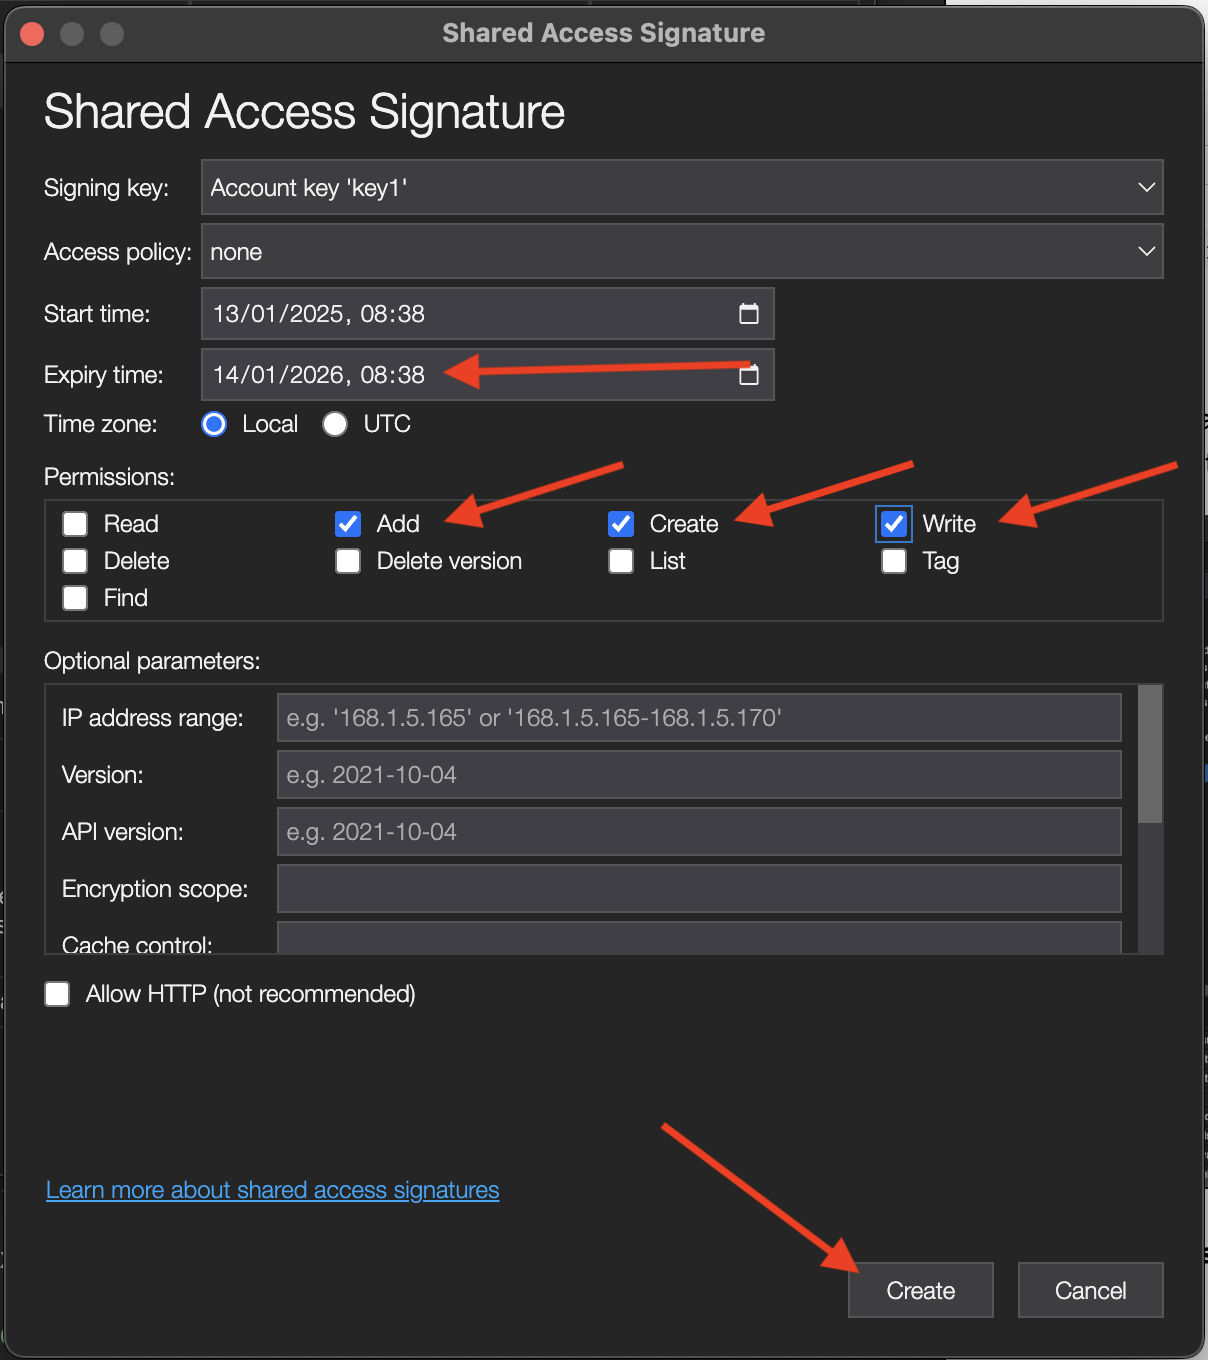
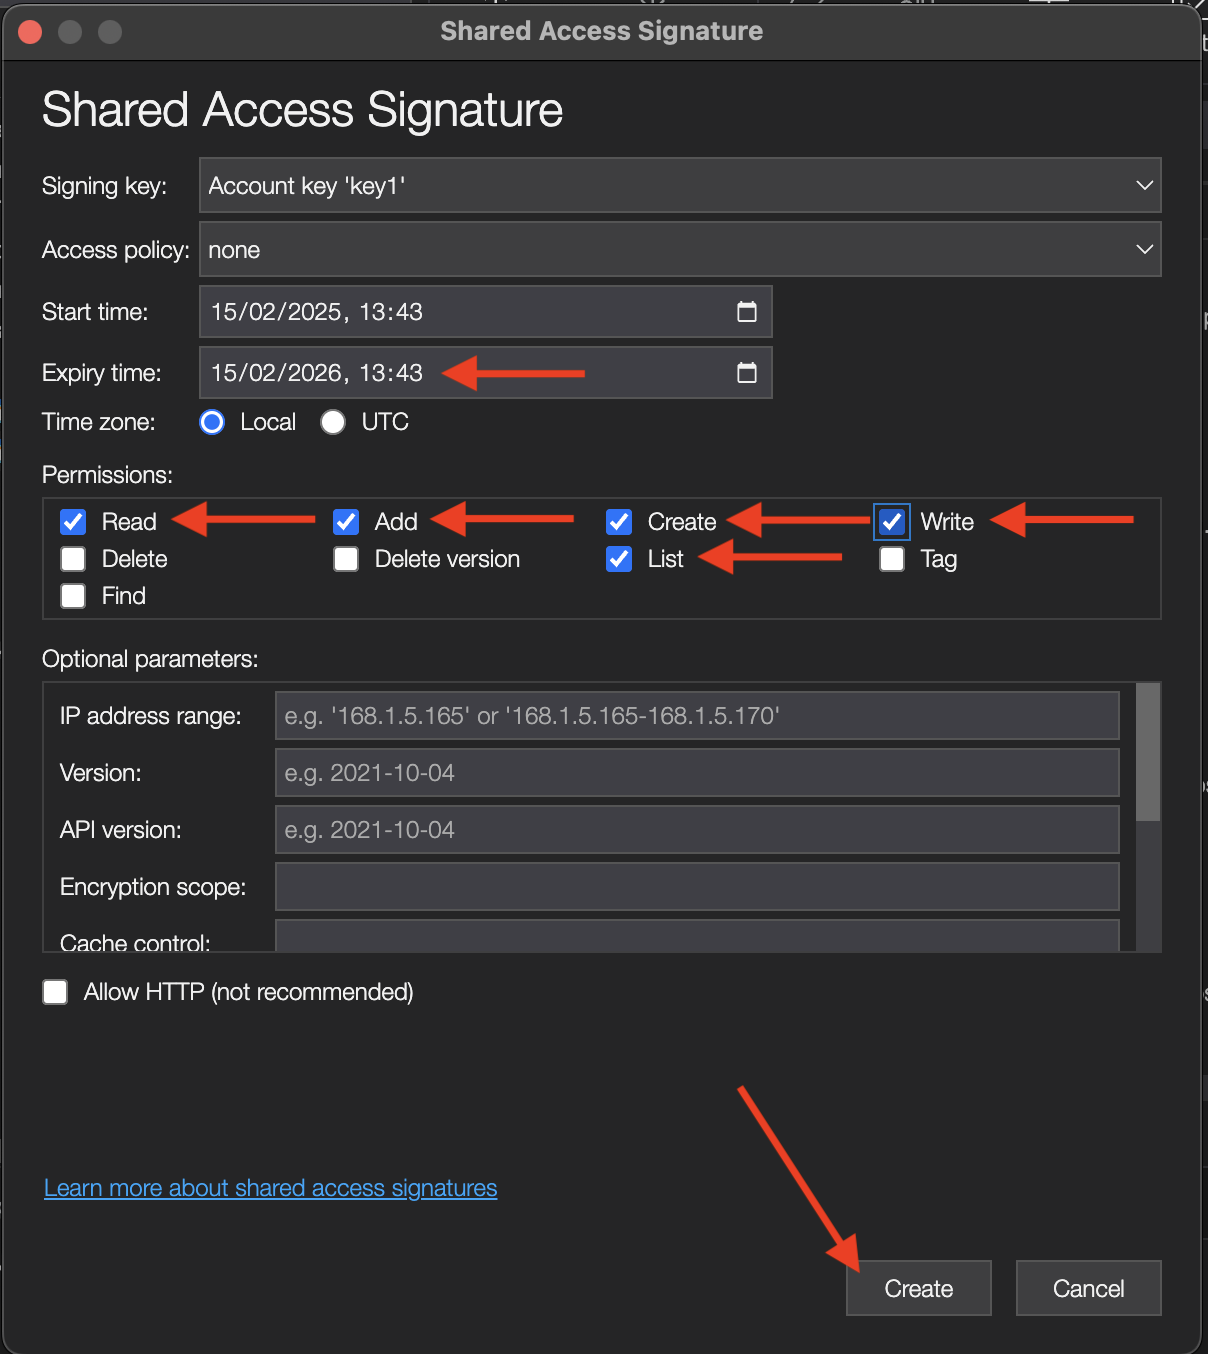
api collection updates

diff --git a/help/tutorial-one-adobe/modules/creative-cloud/module1.1/ex1.md b/help/tutorial-one-adobe/modules/creative-cloud/module1.1/ex1.md
@@ -11,162 +11,31 @@ exl-id: 52385c33-f316-4fd9-905f-72d2d346f8f5
 
 Learn how to use Postman and Adobe I/O to query Adobe Firefly Services APIs.
 
-## 1.1.1.1 Configure your Adobe I/O Project
+## 1.1.1.1 Prerequisites
 
-In this exercise, Adobe I/O is used to query against Firefly Services APIs. Follow these steps to setup Adobe I/O.
+Before continuing with this exercise, you need to have completed the setup of [your Adobe I/O project](./../../../modules/getting-started/gettingstarted/ex6.md), and you also need to have configured an application to interact with APIs, such as [Postman](./../../../modules/getting-started/gettingstarted/ex7.md) or [PostBuster](./../../../modules/getting-started/gettingstarted/ex8.md).
 
-1. Go to [https://developer.adobe.com/console/home](https://developer.adobe.com/console/home){target="_blank"}.
+## 1.1.1.2 Adobe I/O - access_token
 
-  ![Adobe I/O New Integration](./images/iohome.png){zoomable="yes"}
+In the **Adobe IO - OAuth** collection, select the request named **POST - Get Access Token** and select **Send**. The response should contain a new **accestoken**.
 
-1. Make sure to select the correct instance in the top right corner of your screen. Your instance is `--aepImsOrgName--`. Next, select **Create new project**.
+![Postman](./images/ioauthresp.png){zoomable="yes"}
 
-  ![Adobe I/O New Integration](./images/iocomp.png){zoomable="yes"}
+## 1.1.1.3 Firefly Services API, Text 2 Image
 
-1. Select **+ Add to Project** and choose **API**.
+Now that you have a valid and fresh access_token, you are ready to send your first request to Firefly Services APIs.
 
-  ![Adobe I/O New Integration](./images/adobe_io_access_api.png){zoomable="yes"}
+Select the request named **POST - Firefly - T2I V3** from the **FF - Firefly Services Tech Insiders** collection.
 
- Your screen should look like this.
+![Firefly](./images/ff1.png){zoomable="yes"}
 
-  ![Adobe I/O New Integration](./images/api1.png){zoomable="yes"}
+Copy the image URL from the response and open it in your web browser to view the image. 
 
-1. Select **Creative Cloud** and choose **Firefly - Firefly Services**, then select **Next**.
+![Firefly](./images/ff2.png){zoomable="yes"}
 
-  ![Adobe I/O New Integration](./images/api3.png){zoomable="yes"}
+You should see a beautiful image portraying `horses in a field`.
 
-1. Provide a name for your credential: `--aepUserLdap-- - Firefly Services OAuth credential`and select **Next**.
-
-  ![Adobe I/O New Integration](./images/api4.png){zoomable="yes"}
-
-1. Select the default profile **Default Firefly Services Configuration** and select **Save Configured API**.
-
-  ![Adobe I/O New Integration](./images/api9.png){zoomable="yes"}
-
-  Your Adobe I/O integration is now ready.
-
-  ![Adobe I/O New Integration](./images/api11.png){zoomable="yes"}
-
-## 1.1.1.2 Download the Postman environment
-
-1. Select **Download for Postman**, then choose **OAuth Server-to-Server** to download a Postman environment.
-
-  ![Adobe I/O New Integration](./images/iopm.png){zoomable="yes"}
-
-1. Select your project name.
-
-  ![Adobe I/O New Integration](./images/api13.png){zoomable="yes"}
-
-1. Select **Edit Project**.
-
-  ![Adobe I/O New Integration](./images/api14.png){zoomable="yes"}
-
-1. Enter a friendly name for your integration: `--aepUserLdap-- Firefly`and select **Save**.
-
-  ![Adobe I/O New Integration](./images/api15.png){zoomable="yes"}
-
-  The setup of your Adobe I/O integration is now finished.
-
-  ![Adobe I/O New Integration](./images/api16.png){zoomable="yes"}
-
-## 1.1.1.3 Postman authentication to Adobe I/O
-
-1. Download and install the relevant version of Postman for your OS at [Postman Downloads](https://www.postman.com/downloads/){target="_blank"}.
-
-  ![Adobe I/O New Integration](./images/getstarted.png){zoomable="yes"}
-
-1. Start the application.
-
-  In Postman, there are 2 concepts: Environments and Collections.
-
-  - The environment file contains all of your environmental variables which are more or less consistent. In the environment, you'll find things like the IMSOrg of your Adobe environment, alongside security credentials like your Client ID and others. You downloaded the environment file during the Adobe I/O setup previously and it's named  **`oauth_server_to_server.postman_environment.json`**.
-    
-  - The Collection contains a number of API requests that you can use. We will use 2 collections
-    - 1 Collection for Authentication to Adobe I/O
-    - 1 Collection for the exercises in this module
-
-1. Download [postman-ff.zip](./../../../assets/postman/postman-ff.zip) to your local desktop. 
-
-  ![Adobe I/O New Integration](./images/pmfolder.png){zoomable="yes"}
-
-  In **postman.zip** file are the following files:
-
-    - `Adobe IO - OAuth.postman_collection.json`
-    - `FF - Firefly Services Tech Insiders.postman_collection.json`
-  
-1. Unzip **postman-ff.zip** and store the following 2 files in a folder on your desktop:
-  - Adobe IO - OAuth.postman_collection.json 
-  - FF - Firefly Services Tech Insiders.postman_collection.json 
-  - oauth_server_to_server.postman_environment.json
-
-  ![Adobe I/O New Integration](./images/pmfolder1.png){zoomable="yes"}
-
-1. In Postman, select **Import**.
-
-  ![Adobe I/O New Integration](./images/postmanui.png){zoomable="yes"}
-
-1. Select **Files**.
-
-  ![Adobe I/O New Integration](./images/choosefiles.png){zoomable="yes"}
-
-1. Choose the three files from the folder, then select **Open** and **Import**. 
-
-  ![Adobe I/O New Integration](./images/selectfiles.png){zoomable="yes"}
-
-  ![Adobe I/O New Integration](./images/impconfirm.png){zoomable="yes"}
-
-  No you have everything you need in Postman to start interacting with Firefly Services through the APIs.
-
-## 1.1.1.4 Request an access token
-
-Next, to make sure you're properly authenticated, you need to request an access token.
-
-1. Make sure that you've got the right environment selected before executing any request by verifying the Environment-dropdown list in the top right corner. The selected Environment should have a name similar to this one, `--aepUserLdap-- Firefly Services OAuth Credential`.
-
-  ![Postman](./images/envselemea1.png){zoomable="yes"}
-
-  The selected Environment should have a name similar to this one, `--aepUserLdap-- Firefly Services OAuth Credential`.
-
-  ![Postman](./images/envselemea.png){zoomable="yes"}
-
-  Now that your Postman environment and collections are configured and working, you can authenticate from Postman to Adobe I/O.
-
-1. In the **Adobe IO - OAuth** collection, select the request named **POST - Get Access Token** and select **Send**. 
-
-  Notice under **Query Params**, two variables are referenced, `API_KEY` and `CLIENT_SECRET`. These variables are taken from the selected environment, `--aepUserLdap-- Firefly Services OAuth Credential`. 
-
-  ![Postman](./images/ioauth.png){zoomable="yes"}
-
-  If successful, a response containing a bearer token, an access token, and an expiration window appears in the **Body** section of Postman.
-
-  ![Postman](./images/ioauthresp.png){zoomable="yes"}
-
-
-  You should see a similar response containing the following information:
-
-  | Key     | Value     | 
-  |:-------------:| :---------------:| 
-  | token_type          | **bearer** |
-  | access_token    | **eyJhbGciOiJSU...** | 
-  | expires_in          | **86399** |
-
-  The Adobe I/O **bearer-token** has a specific value (the very long access_token) and an expiration window and is now valid for 24 hours. This means that after 24 hours, if you want to use Postman to authenticate to Adobe I/O, you will have to generate a new token by running this request again.
-
-## 1.1.1.5 Firefly Services API, Text 2 Image
-
-Now you are ready to send your first request to Firefly Services APIs.
-
-1. Select the request named **POST - Firefly - T2I V3** from the **FF - Firefly Services Tech Insiders** collection.
-
-  ![Firefly](./images/ff1.png){zoomable="yes"}
-
-1. Copy the image URL from the response and open it in your web browser to view the image. 
-
-  ![Firefly](./images/ff2.png){zoomable="yes"}
-
-  You should see a beautiful image portraying `horses in a field`.
-
-  ![Firefly](./images/ff3.png){zoomable="yes"}
+![Firefly](./images/ff3.png){zoomable="yes"}
 
 Feel free to play around with the API request before continuing to the next exercise.
 

diff --git a/help/tutorial-one-adobe/modules/creative-cloud/module1.1/ex3.md b/help/tutorial-one-adobe/modules/creative-cloud/module1.1/ex3.md
@@ -11,65 +11,27 @@ exl-id: 60eecc24-1713-4fec-9ffa-a3186db1a8ca
 
 Learn how to work with the Photoshop APIs and Firefly Services.
 
-## 1.1.3.1 Update your Adobe I/O integration
+## 1.1.3.1 Prerequisites
 
-1. Go to [https://developer.adobe.com/console/home](https://developer.adobe.com/console/home){target="_blank"}.
+Before continuing with this exercise, you need to have completed the setup of [your Adobe I/O project](./../../../modules/getting-started/gettingstarted/ex6.md), and you also need to have configured an application to interact with APIs, such as [Postman](./../../../modules/getting-started/gettingstarted/ex7.md) or [PostBuster](./../../../modules/getting-started/gettingstarted/ex8.md).
 
-  ![Adobe I/O New Integration](./images/iohome.png){zoomable="yes"}
+## 1.1.3.2 Adobe I/O - access_token
 
-1. Go to **Projects** and select the project you created in the previous exercise, which is called `--aepUserLdap-- Firefly`.
+In the **Adobe IO - OAuth** collection, select the request named **POST - Get Access Token** and select **Send**. The response should contain a new **accestoken**.
 
-  ![Azure Storage](./images/ps1.png){zoomable="yes"}
+![Postman](./images/ioauthresp.png){zoomable="yes"}
 
-1. Select **+ Add to Project** and then select **API**.
+## 1.1.3.3 Programmatically interact with a PSD file
 
-  ![Azure Storage](./images/ps2.png){zoomable="yes"}
+Download [citisignal-fiber.psd](./../../../assets/ff/citisignal-fiber.psd){target="_blank"} to your desktop.
 
-1. Select **Creative Cloud** and choose **Photoshop - Firefly Services**. Select **Next**.
+Open **citisignal-fiber.psd** in Photoshop. 
 
-  ![Azure Storage](./images/ps3.png){zoomable="yes"}
+![Azure Storage](./images/ps7.png){zoomable="yes"}
 
-1. Select **Next**.
+In the **Layers** pane, the designer of the file has given a unique name to each layer. You can see the layer information by opening the PSD file in Photoshop, but you can also do this programmatically.
 
-  ![Azure Storage](./images/ps4.png){zoomable="yes"}
-
-  Next, you need to select a product profile that defines what permissions are available to this integration.
-
-1. Select **Default Firefly Services Configuration** and **Default Creative Cloud Automation Services configuration**.
-
-1. Select **Save Configured API**.
-
-  ![Azure Storage](./images/ps5.png){zoomable="yes"}
-
-  Your Adobe I/O project is now updated to work with Photoshop and Firefly Services APIs.
-
-  ![Azure Storage](./images/ps6.png){zoomable="yes"}
-
-## 1.1.3.2 Programmatically interact with a PSD file
-
-1. Download [citisignal-fiber.psd](./../../../assets/ff/citisignal-fiber.psd){target="_blank"} to your desktop.
-
-1. Open **citisignal-fiber.psd** in Photoshop. 
-
-  ![Azure Storage](./images/ps7.png){zoomable="yes"}
-
-  In the **Layers** pane, the designer of the file has given a unique name to each layer. You can see the layer information by opening the PSD file in Photoshop, but you can also do this programmatically.
-
-  Let's send your first API request to Photoshop APIs.
-
-1. In Postman, before sending API requests to Photoshop, you need to authenticate to Adobe I/O. Open the previous request with the name **POST - Get Access Token**.
-
-1. Go to **Params** and verify that the parameter **Scope** is properly set. The **Value** for **Scope** should look like this: 
-
-  `openid,session,AdobeID,read_organizations,additional_info.projectedProductContext, ff_apis, firefly_api`
-
-1. Select **Send**.
-
-  ![Azure Storage](./images/ps8.png){zoomable="yes"}
-
-  Now you have a valid access token to interact with Photoshop APIs.
-
-  ![Azure Storage](./images/ps9.png){zoomable="yes"}
+Let's send your first API request to Photoshop APIs.
 
 ### Photoshop API - Hello World
 

diff --git a/help/tutorial-one-adobe/modules/creative-cloud/module1.1/ex2.md b/help/tutorial-one-adobe/modules/creative-cloud/module1.1/ex2.md
@@ -284,6 +284,8 @@ To programmatically read files from Azure Storage Accounts in the long term, you
 
 1. Under **Permissions**, select the following required permissions:
 
+    - **Read**
+    - **List**
     - **Add**
     - **Create**
     - **Write**
@@ -320,7 +322,7 @@ Next you need to create variables in Postman that store the various elements of 
 - `AZURE_STORAGE_SAS_READ`: `?sv=2023-01-03&st=2025-01-13T07%3A36%3A35Z&se=2026-01-14T07%3A36%3A00Z&sr=c&sp=rl&sig=4r%2FcSJLlt%2BSt9HdFdN0VzWURxRK6UqhB8TEvbWkmAag%3D`
 - `AZURE_STORAGE_SAS_WRITE`: `?sv=2023-01-03&st=2025-01-13T07%3A38%3A59Z&se=2026-01-14T07%3A38%3A00Z&sr=c&sp=acw&sig=lR9%2FMUfyYLcBK7W9Kv7YJdYz5HEEEovExAdOCOCUdMk%3D`
 
-For future API interactions, the main thing that changes is the asset name, while the above variables remain the same. In that case, it makes sense to create variables in Postman so that you don't need to specify them manually every time..
+For future API interactions, the main thing that changes is the asset name, while the above variables remain the same. In that case, it makes sense to create variables in Postman so that you don't need to specify them manually every time.
 
 1. In Postman, select **Environments**, open **All variables** and select **Environment**.
 
@@ -337,7 +339,32 @@ For future API interactions, the main thing that changes is the asset name, whil
 
     ![Azure Storage](./images/az105.png){zoomable="yes"}
 
-    In one of the previous exercises, the **Body** of your the request **Firefly - T2I (styleref) V3** looked like this:
+### Variables in PostBuster
+
+As you can see in the above section, there are some common variables in both the Read and the Write token.
+
+Next you need to create variables in PostBuster that store the various elements of the above SAS-tokens. There are some values that are the same in both URLs:
+
+- `AZURE_STORAGE_URL`: `https://vangeluw.blob.core.windows.net`
+- `AZURE_STORAGE_CONTAINER`: `vangeluw`
+- `AZURE_STORAGE_SAS_READ`: `?sv=2023-01-03&st=2025-01-13T07%3A36%3A35Z&se=2026-01-14T07%3A36%3A00Z&sr=c&sp=rl&sig=4r%2FcSJLlt%2BSt9HdFdN0VzWURxRK6UqhB8TEvbWkmAag%3D`
+- `AZURE_STORAGE_SAS_WRITE`: `?sv=2023-01-03&st=2025-01-13T07%3A38%3A59Z&se=2026-01-14T07%3A38%3A00Z&sr=c&sp=acw&sig=lR9%2FMUfyYLcBK7W9Kv7YJdYz5HEEEovExAdOCOCUdMk%3D`
+
+Open PostBuster. Select **Base Environment** and then click the **edit** icon to open the Base Environment.
+
+![Azure Storage](./images/pbbe1.png)
+
+You'll then see 4 empty variables. Enter your Azure Storage Account details here.
+
+![Azure Storage](./images/pbbe2.png)
+
+Your Base Environment file should now look like this. Click **Close**.
+
+![Azure Storage](./images/pbbe3.png)
+
+### Test your configuration
+
+In one of the previous exercises, the **Body** of your the request **Firefly - T2I (styleref) V3** looked like this:
 
     `"url": "https://vangeluw.blob.core.windows.net/vangeluw/gradient.jpg?sv=2023-01-03&st=2025-01-13T07%3A16%3A52Z&se=2026-01-14T07%3A16%3A00Z&sr=b&sp=r&sig=x4B1XZuAx%2F6yUfhb28hF0wppCOMeH7Ip2iBjNK5A%2BFw%3D"`
 

diff --git a/help/tutorial-one-adobe/modules/getting-started/gettingstarted/ex8.md b/help/tutorial-one-adobe/modules/getting-started/gettingstarted/ex8.md
@@ -8,7 +8,7 @@ doc-type: tutorial
 
 >[!IMPORTANT]
 >
->If you're not an Adobe employee, follow the instructions to [install Postman](./ex7.md). The below instructions are only intended for Adobe employees. If you have already configured Postman, then skip this exercise and go to [Applications to install](./ex9.md).
+>If you're not an Adobe employee, follow the instructions to [install Postman](./ex7.md). The below instructions are only intended for Adobe employees.
 
 ## Install PostBuster
 
